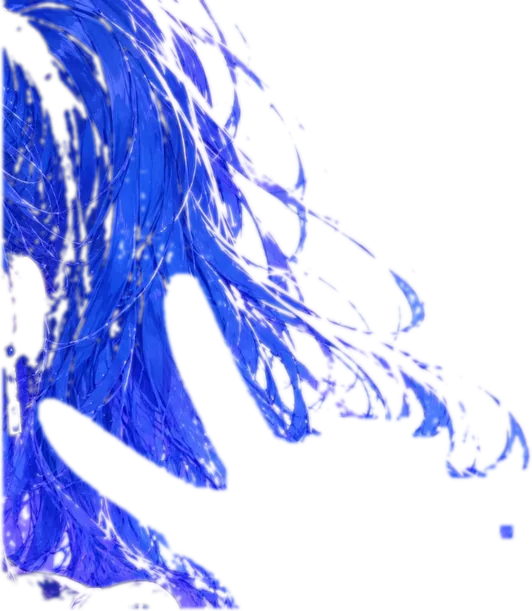
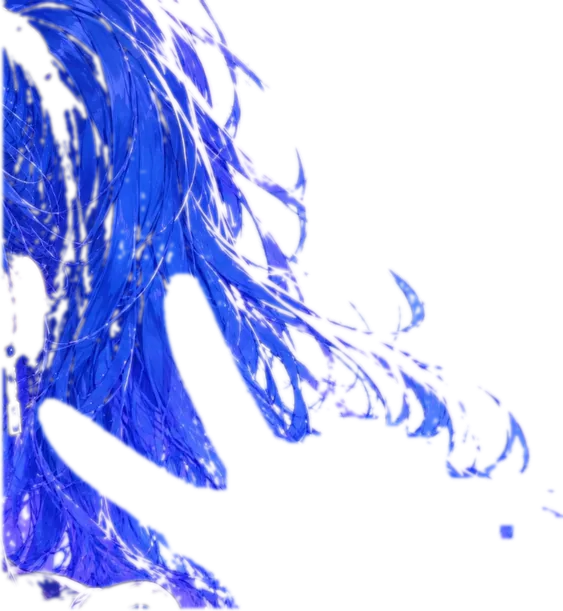
Главная: руки без свечения и с плавным стыком, чистые края волос Запрет-тян, приглушённый контур

Changed region(s): [[0.0, 0.0, 1.0, 1.0], [0.8722, 0.8085, 1.0, 0.9018], [0.6316, 0.3732, 0.6917, 0.4043]]

diff --git a/public/assets/zapret-moe/home.css b/public/assets/zapret-moe/home.css
@@ -1570,8 +1570,8 @@ html.zpm-intro-on .zi:not(.zi-run) {
 }
 
 @keyframes zr-rim {
-  from { opacity: 0.55; }
-  to { opacity: 1; }
+  from { opacity: 0.12; }
+  to { opacity: 0.3; }
 }
 
 @keyframes zr-rim-rkn {
